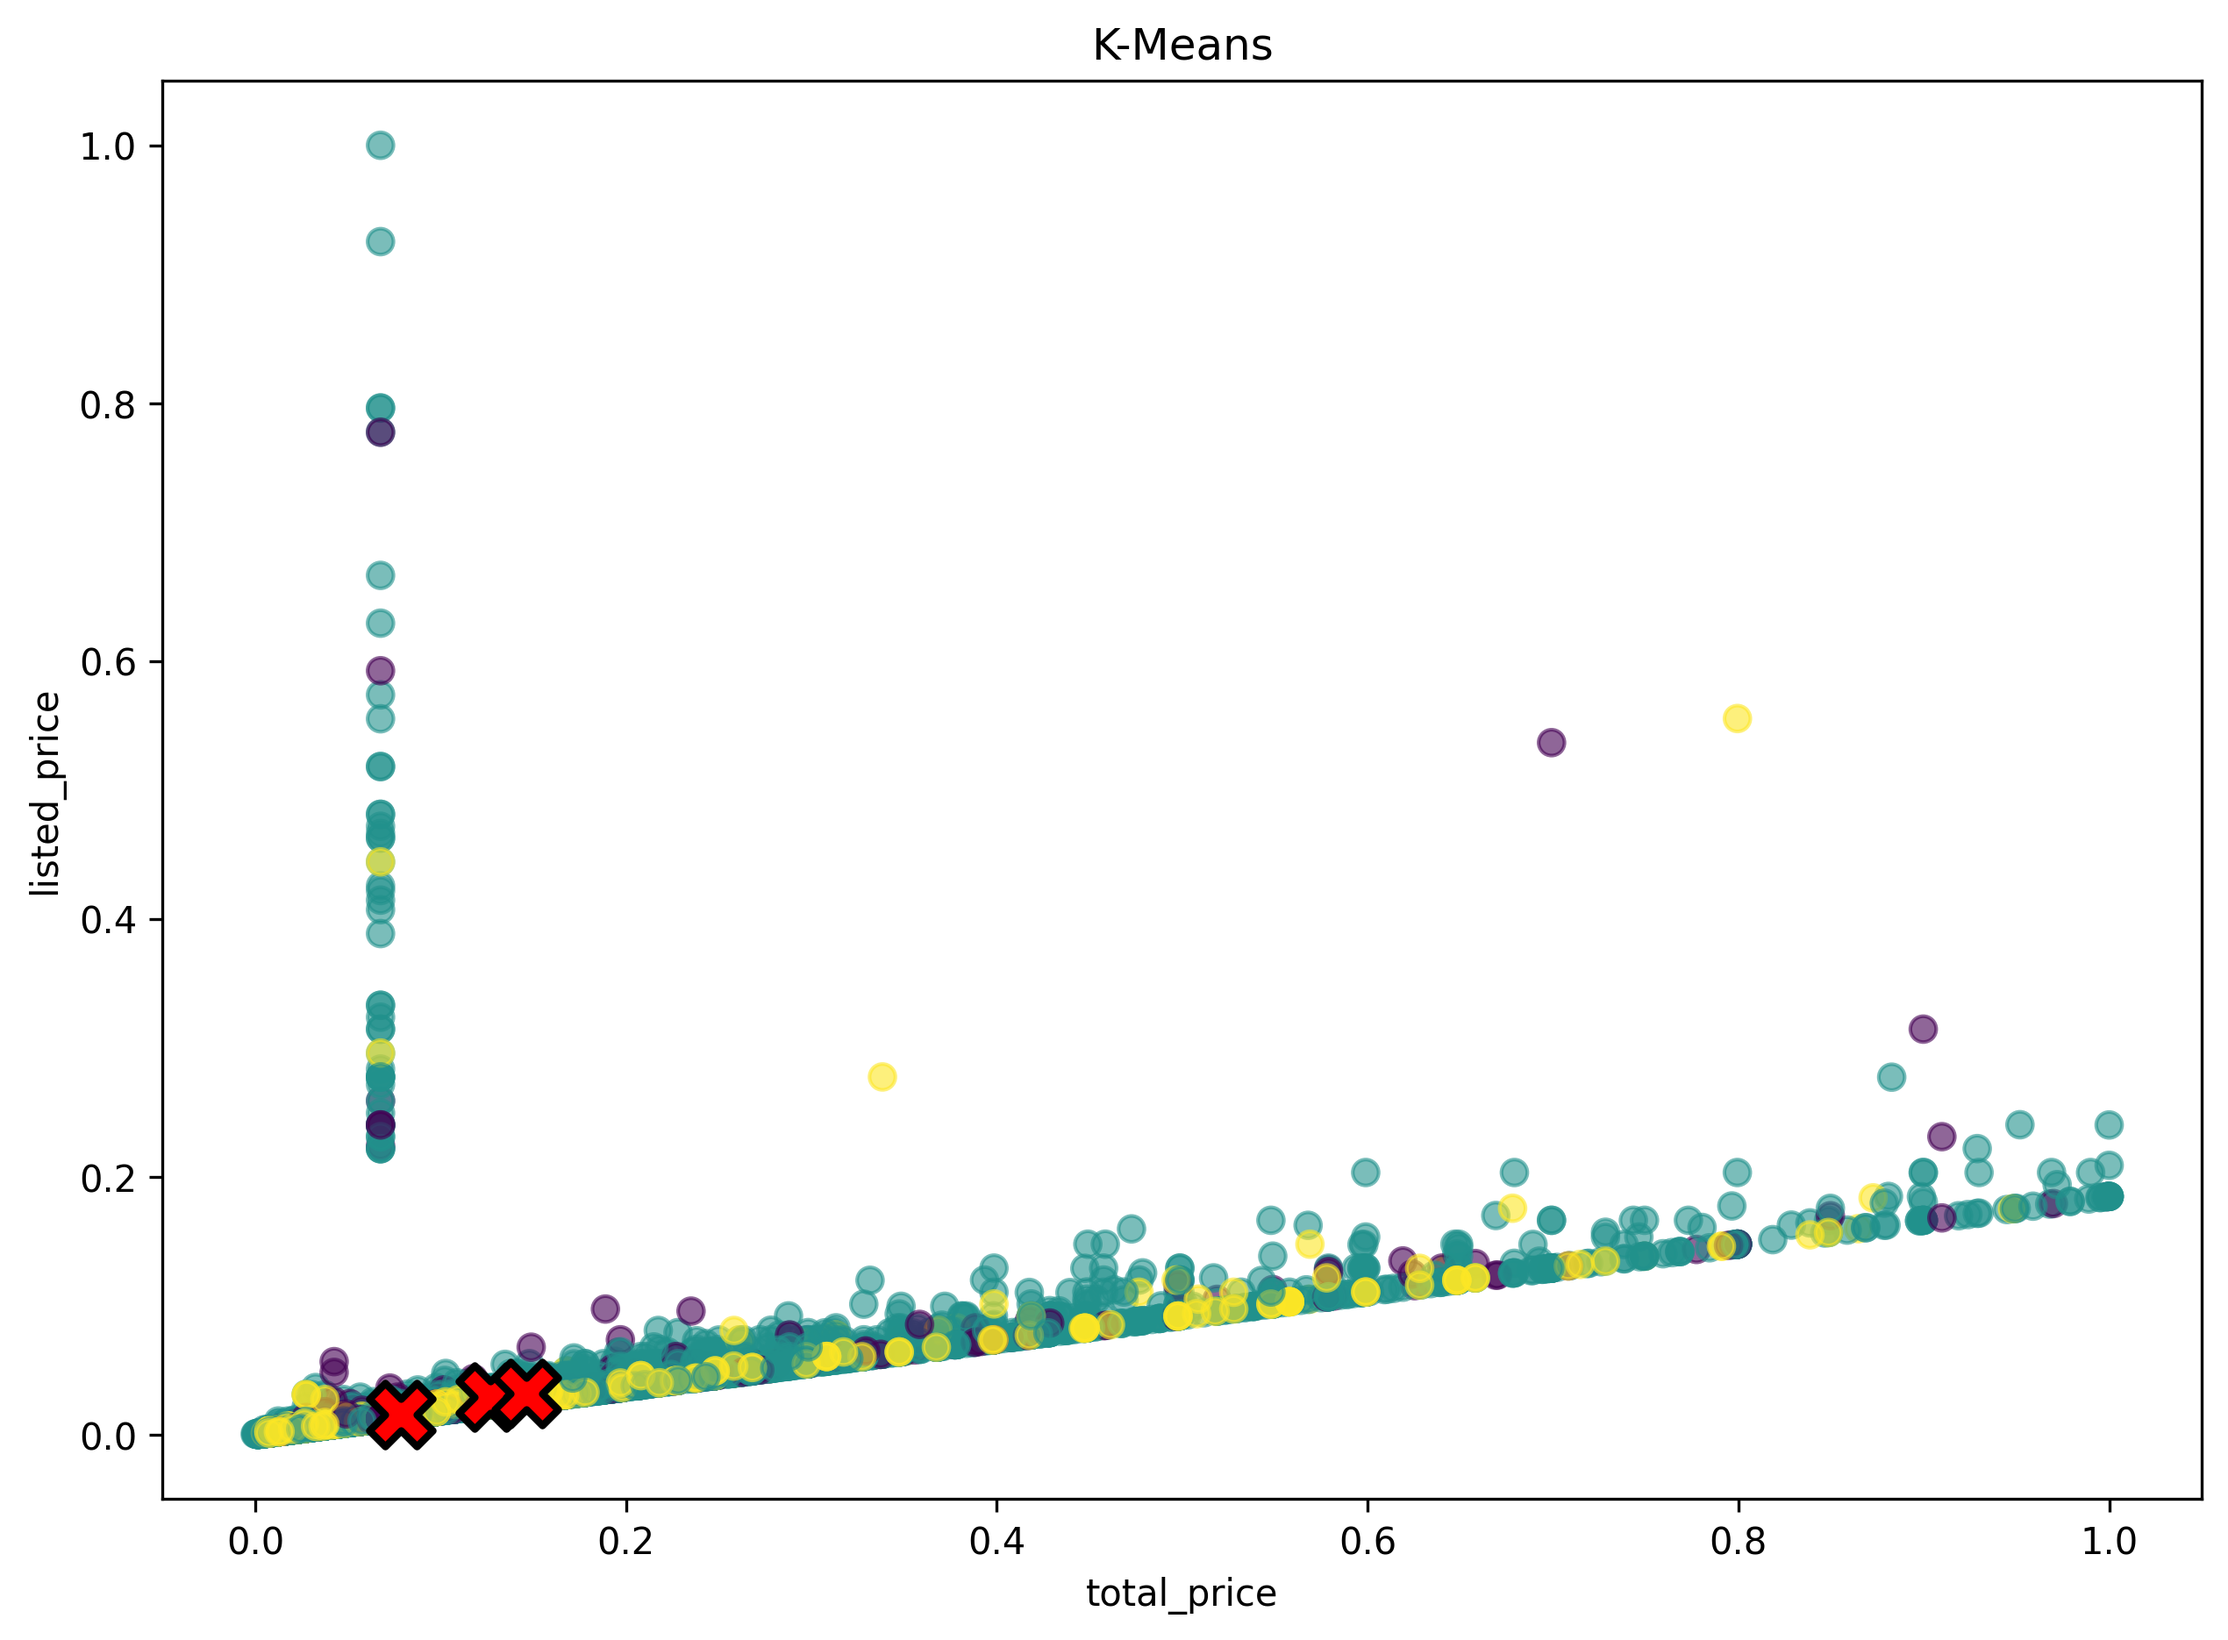
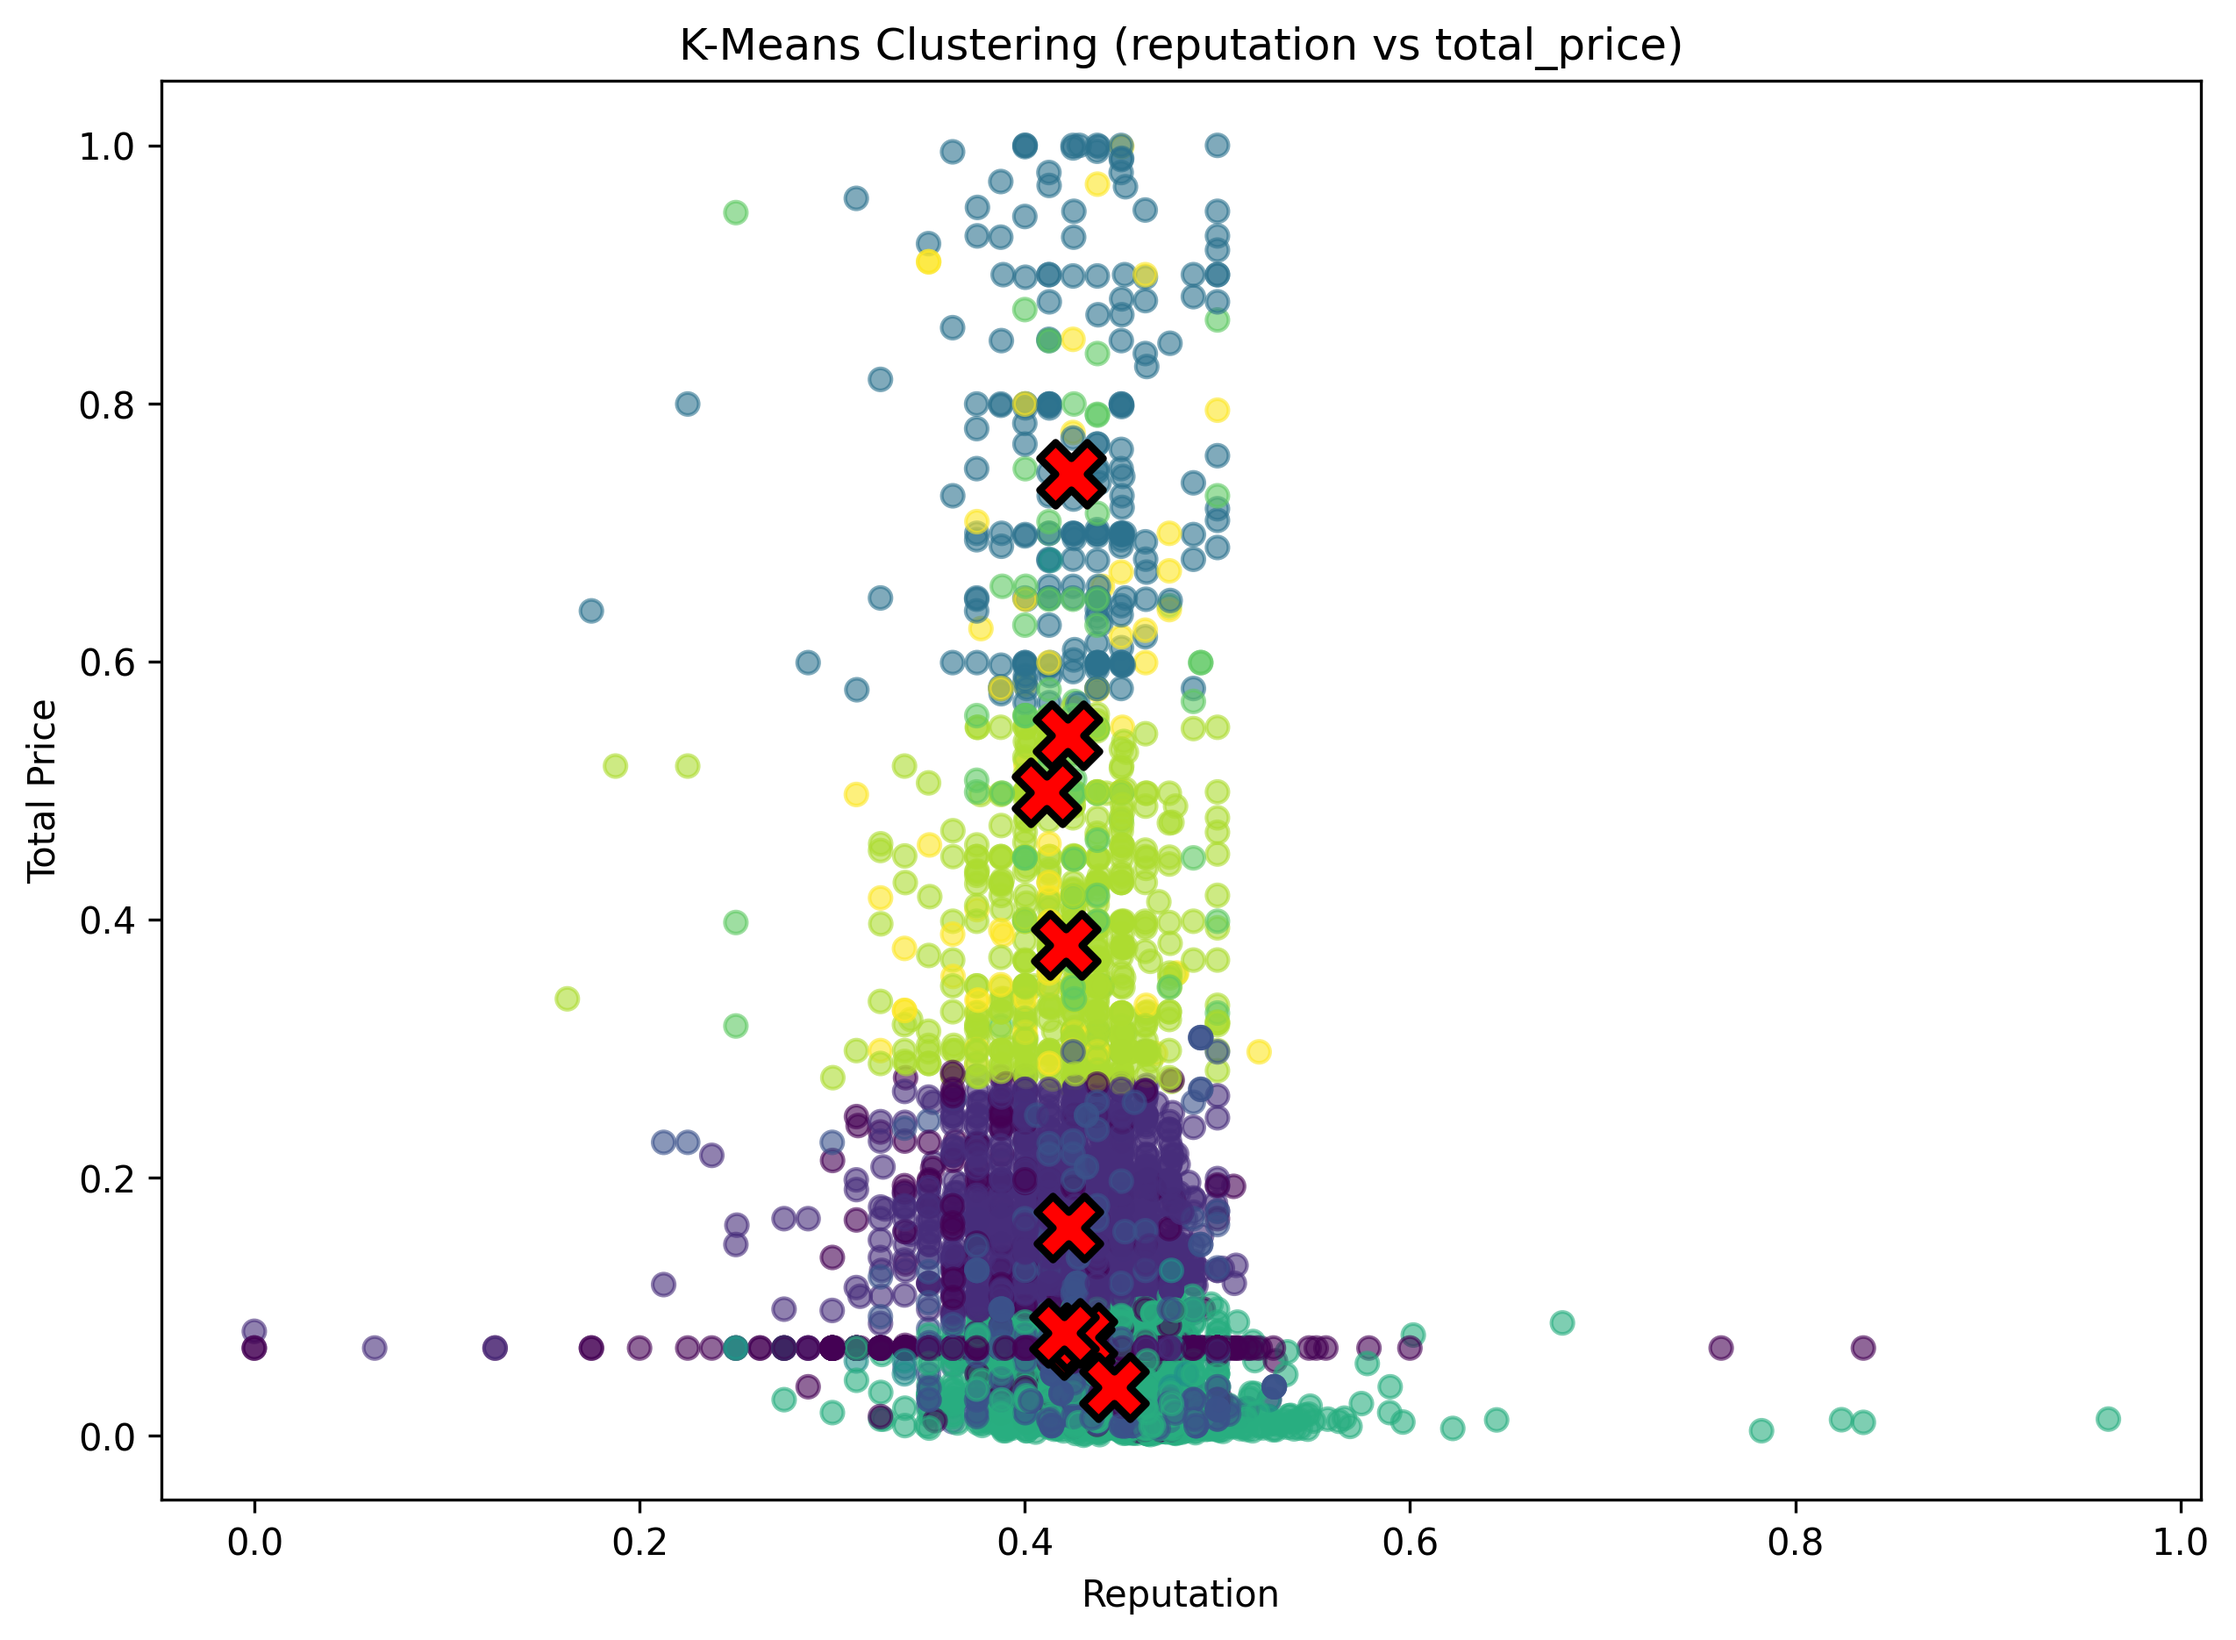
3.1

diff --git a/main.py b/main.py
@@ -22,7 +22,7 @@ X = numeric_data.values
 
 
 print("\n=== K-MEANS CLUSTERING ===")
-kmeans = KMeans(n_clusters=3, random_state=42, n_init=10)
+kmeans = KMeans(n_clusters=9, random_state=42, n_init=10)
 kmeans_labels = kmeans.fit_predict(X)
 
 kmeans_silhouette = silhouette_score(X, kmeans_labels)
@@ -33,18 +33,18 @@ print(f"Davies-Bouldin Index: {kmeans_davies_bouldin:.4f}")
 print(f"Calinski-Harabasz Score: {kmeans_calinski:.4f}")
 
 plt.figure(figsize=(10, 7))
-plt.scatter(X[:, 0], X[:, 1], c=kmeans_labels, cmap='viridis', s=50, alpha=0.6)
-plt.scatter(kmeans.cluster_centers_[:, 0], kmeans.cluster_centers_[:, 1], c='red', marker='X', s=300, edgecolors='black', linewidth=2)
-plt.xlabel(numeric_data.columns[0])
-plt.ylabel(numeric_data.columns[1])
-plt.title(f'K-Means')
+plt.scatter(numeric_data['reputation'], numeric_data['total_price'], c=kmeans_labels, cmap='viridis', alpha=0.6)
+plt.scatter(kmeans.cluster_centers_[:, numeric_data.columns.get_loc('reputation')], kmeans.cluster_centers_[:, numeric_data.columns.get_loc('total_price')], c='red', marker='X', s=300, edgecolors='black', linewidth=2)
+plt.xlabel('Reputation')
+plt.ylabel('Total Price')
+plt.title('K-Means Clustering (reputation vs total_price)')
 plt.savefig('images/01_kmeans.png', dpi=300, bbox_inches='tight')
 plt.close()
 
 
 print("\n=== HIERARCHICAL CLUSTERING ===")
 linkage_method = 'ward'
-agglom = AgglomerativeClustering(n_clusters=3, linkage=linkage_method)
+agglom = AgglomerativeClustering(n_clusters=9, linkage=linkage_method)
 agglom_labels = agglom.fit_predict(X)
 
 agglom_silhouette = silhouette_score(X, agglom_labels)
@@ -63,15 +63,15 @@ plt.savefig('images/02_dendrogram.png', dpi=300, bbox_inches='tight')
 plt.close()
 
 plt.figure(figsize=(10, 7))
-plt.scatter(X[:, 0], X[:, 1], c=agglom_labels, cmap='plasma', s=50, alpha=0.6)
-plt.xlabel(numeric_data.columns[0])
-plt.ylabel(numeric_data.columns[1])
-plt.title(f'Hierarchical Clustering')
+plt.scatter(numeric_data['reputation'], numeric_data['total_price'], c=agglom_labels, cmap='plasma', alpha=0.6)
+plt.xlabel('Reputation')
+plt.ylabel('Total Price')
+plt.title('Hierarchical Clustering (reputation vs total_price)')
 plt.savefig('images/03_hierarchical.png', dpi=300, bbox_inches='tight')
 plt.close()
 
 print("\n=== DBSCAN CLUSTERING ===")
-dbscan = DBSCAN(eps=0.5, min_samples=5)
+dbscan = DBSCAN(eps=0.3, min_samples=5)
 dbscan_labels = dbscan.fit_predict(X)
 
 n_clusters_dbscan = len(set(dbscan_labels)) - (1 if -1 in dbscan_labels else 0)
@@ -84,20 +84,11 @@ if n_clusters_dbscan > 1:
     print(f"Silhouette Score: {dbscan_silhouette:.4f}")
 
 plt.figure(figsize=(10, 7))
-unique_labels = set(dbscan_labels)
-colors = plt.cm.Spectral(np.linspace(0, 1, len(unique_labels)))
-for k, col in zip(unique_labels, colors):
-    if k == -1:
-        col = [0, 0, 0, 1]
-    class_member_mask = (dbscan_labels == k)
-    xy = X[class_member_mask]
-    if k == -1:
-        plt.scatter(xy[:, 0], xy[:, 1], c=[col], marker='x', s=100, alpha=0.5)
-    else:
-        plt.scatter(xy[:, 0], xy[:, 1], c=[col], marker='o', s=50, alpha=0.7)
-plt.xlabel(numeric_data.columns[0])
-plt.ylabel(numeric_data.columns[1])
-plt.title(f'DBSCAN')
+plt.scatter(numeric_data['reputation'], numeric_data['total_price'],
+            c=dbscan_labels, cmap='Spectral', alpha=0.6)
+plt.xlabel('Reputation')
+plt.ylabel('Total Price')
+plt.title('DBSCAN (reputation vs total_price)')
 plt.savefig('images/04_dbscan.png', dpi=300, bbox_inches='tight')
 plt.close()
 
